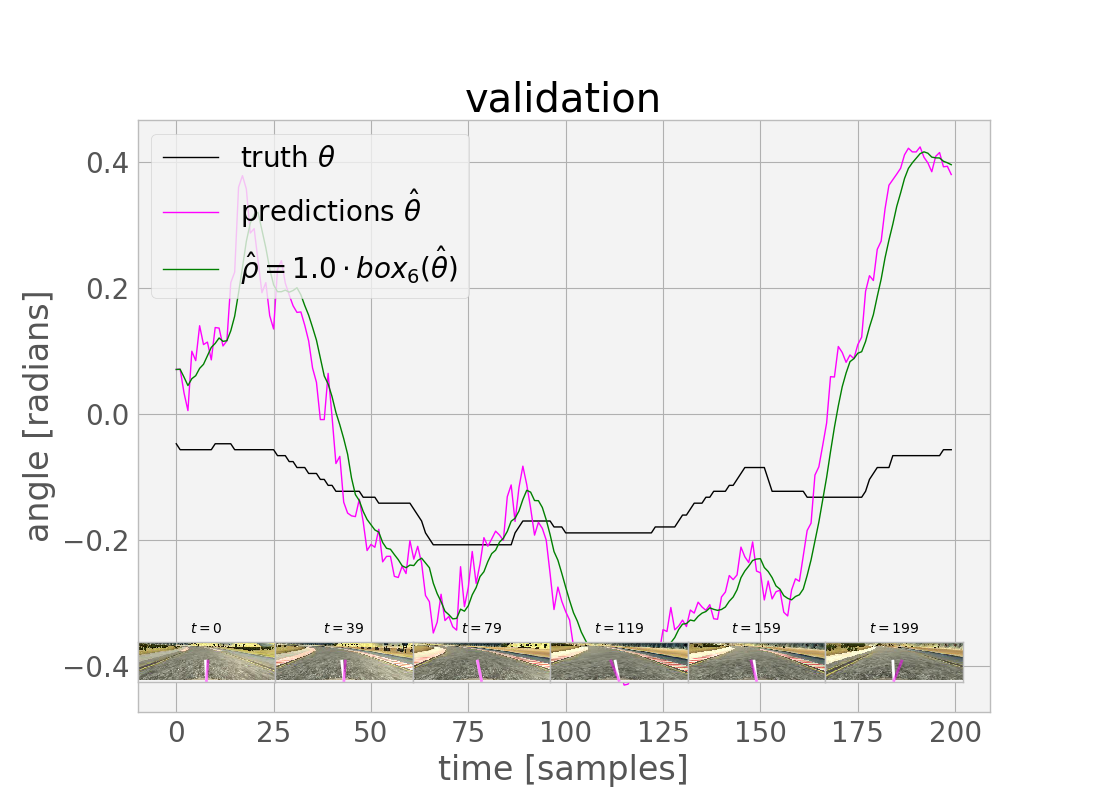
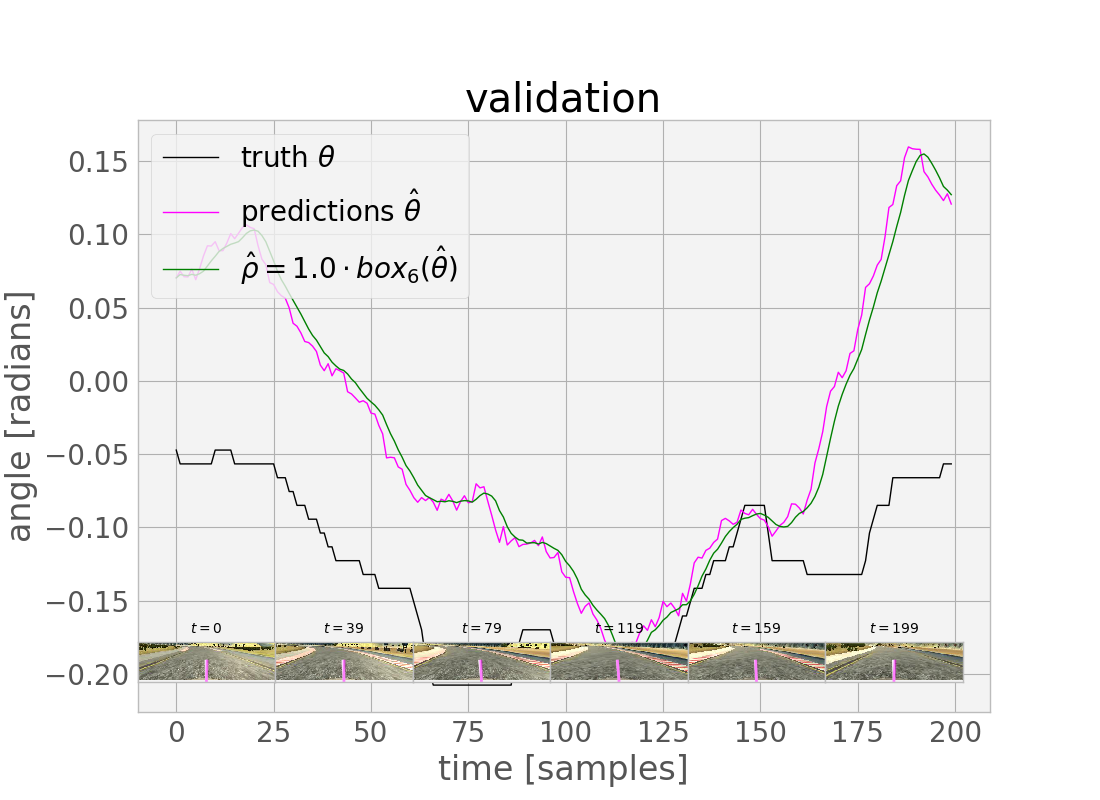
Update model with tanh.

diff --git a/model.py b/model.py
@@ -3,6 +3,18 @@ import keras, numpy as np, matplotlib.pyplot as plt
 import nnUtils, loadData, models
 
 
+## SET PARAMETERS.
+epochs = 18
+learningRate = .0001
+kernel_regularizer = keras.regularizers.l2(0.01)
+#bias_regularizer = keras.regularizers.l2(0.01)
+bias_regularizer = None
+epochSubsampling = 1
+denseActivation = 'tanh'
+lastActivation = 'tanh'
+batchBaseSize = 25
+
+
 ## CREATE DATA GENERATOR.
 datadir = os.path.join(os.path.expanduser('~'), 'data2', 'behavioralCloning')
 dataGenerator = loadData.DeemphasizedZeroDataGenerator(
@@ -11,32 +23,28 @@ dataGenerator = loadData.DeemphasizedZeroDataGenerator(
         for p in (
             'mouseForward.zip',
             'mouseReverse.zip',
-            # 'longCarefulForward.zip',
-            # 'longCarefulReverse.zip',
-            # 'data_provided.zip',
-            # 'dirtSidesForward.zip',
-            # 'dirtSidesReverse.zip',
-            'jungleMouseCenterForward.zip',
-            'jungleMouseCenterReverse.zip',
+            'longCarefulForward.zip',
+            'longCarefulReverse.zip',
+            'data_provided.zip',
+            'dirtSidesForward.zip',
+            'dirtSidesReverse.zip',
+            # 'jungleMouseCenterForward.zip',
+            # 'jungleMouseCenterReverse.zip',
         )
     ],
-    sidecamAdjustment=[.15, .15, .6, .6],
+    sidecamAdjustment=.15,
+    #sidecamAdjustment=[.15, .15, .6, .6],
+    batchBaseSize=batchBaseSize,
 )
 
 
 ## DEFINE MODEL.
-epochs = 6
-learningRate = .0001
-kernel_regularizer = keras.regularizers.l2(0.001)
-#bias_regularizer = keras.regularizers.l2(0.01)
-bias_regularizer = None
-epochSubsampling = 1
 modelname = (
-    'mouseJungle-deemZero-kl2%.1g-%depoch-subsamp%.1g-scads_%s' % (
+    'bigdata-deemZero-kl2%.1g-%depoch-subsamp%.1g-scads_%s-fc_%s-final_%s-batchBaseSize_%d' % (
     kernel_regularizer.l2, epochs, epochSubsampling, 
-    '_'.join(['%.2g' % sca for sca in dataGenerator.sidecamAdjustments])
+    '_'.join(['%.2g' % sca for sca in dataGenerator.sidecamAdjustments]),
+    denseActivation, lastActivation, batchBaseSize
 )).replace('0.', 'p')
-
 model = models.Nvidia(
     len(dataGenerator.responseKeys), dataGenerator.sampleImageShape,
     optimizer=keras.optimizers.Nadam(
@@ -44,8 +52,9 @@ model = models.Nvidia(
     ),
     kernel_regularizer=kernel_regularizer,
     bias_regularizer=bias_regularizer,
+    denseActivation=denseActivation,
+    lastActivation=lastActivation,
 )
-
 print(model.summary())
 
 

diff --git a/doc/report.md b/doc/report.md
@@ -26,14 +26,13 @@ Instead, I dropped the transfer learning approach and adopted the network struct
 | Conv2D     | 3           | (1, 1) | (None, 4, 23, 64)    |    27712            | Relu       |
 | Conv2D     | 3           | (1, 1) | (None, 2, 21, 64)    |    36928            | Relu       |
 | Flatten    |             |        | (None, 2688)         |    0                |            | 
-| Dense      |             |        | (None, 100)          |    268900           | Relu       |
-| Dense      |             |        | (None, 50)           |    5050             | Relu       |
-| Dense      |             |        | (None, 10)           |    510              | Relu       |
+| Dense      |             |        | (None, 100)          |    268900           | Tanh       |
+| Dense      |             |        | (None, 50)           |    5050             | Tanh       |
+| Dense      |             |        | (None, 10)           |    510              | Tanh       |
 | Dense      |             |        | (None, 1)            |    11               | Tanh       |
 |            |             |        |                      | Total: 405,819      |            |
 
-Here, the Lambda layer is used to convert the cropped image from 8-bit unsigned integer in [0, 255] to floating point in [-1, 1]. As in the InceptionV3 architecture, the bulk of the parameters go to the transition from flattend Conv2D features to the dense function layers. A final Tanh activation is used
-to ensure output in the correct range.
+Here, the Lambda layer is used to convert the cropped image from 8-bit unsigned integer in [0, 255] to floating point in [-1, 1]. As in the InceptionV3 architecture, the bulk of the parameters go to the transition from flattend Conv2D features to the dense function layers. Tanh activation on the fully connected layers seems to provide smoother response (though more regularization is required), and ensures output in the full [-1, 1] range.
 
 ## Data, data augmentation, and preprocessing
 
@@ -41,9 +40,7 @@ Eventually, I found that very good results were obtainable using only the provid
 
 In order to accommodate large datasets, I produced a `DataGenerator` class that worked with Keras's `Model.fit_generator` method to read images from the hard drive only as needed. Since Keras accumulates this data in a queue for feeding to to the optimizer, and batches appeared to be read from the generator initially faster than they were consumed by the optimizer, I do not believe that this was a bottleneck to training speed. This method also allows for combining several datasets gathered separately (each of which is stored as a zip file of the same structure as the provided data) into one mixed stream of training and validation data. Each dataset is extracted to temporary storage before training, and comprises a subdirectory full of `left_*.png`, `center_*.png`, and `right_*.png` images, as well as a CSV file in the top level listing paths to images with their corresponding response variable values (principally, steering angle).
 
-Training/validation split is accomplished by marking the last 20% of each CSV file as validation data, concatenating all the files, and generating (for each epoch) a scrambled ordering. A random train/validation split cannot be used since it would result in training and validation samples close together in time, and therefore also close together in both input and response values.
-
-TODO: Tes?t
+Training/validation split is accomplished by marking the last 20% of each CSV file as validation data, concatenating all the files, and generating (for each epoch) a scrambled ordering. A random train/validation split cannot be used since it would result in training and validation samples close together in time, and therefore also close together in both input and response values. I did not create a test split, choosing instead to "test" in the simulator.
 
 
 ### Response distribution leveling
@@ -84,7 +81,7 @@ Interestingly, this insight provides most of what is needed to get some sort of 
 
 ## Post-Processing
 
-Initially, since network outputs appeared very noisy, I added temporal smoothing by using a running average of the last 6 or so steering angle predictions. Since this had the effect of damping out needed strong turns, I multiplied this average by an arbitrary scaling factor of about two. However, this approach predictably did more harm than good as the network outputs became better (through improved architecture and preprocessing). In particular, temporal smoothing makes it difficult for the controller to respond to quickly changing inputs, as appear when the car is moving more quickly. With this smoothing in place, the speed had to be fixed at as low as 5 MPH to avoid curb strikes.
+Initially, since network outputs appeared very noisy, I added temporal smoothing by using a running average of the last 6 or so steering angle predictions (denoted as $\hat\rho$). Since this had the effect of damping out needed strong turns, I multiplied this average by an arbitrary scaling factor of about two. However, this approach predictably did more harm than good as the network outputs became better (through improved architecture and preprocessing). In particular, temporal smoothing makes it difficult for the controller to respond to quickly changing inputs, as appear when the car is moving more quickly. With this smoothing in place, the speed had to be fixed at as low as 5 MPH to avoid curb strikes.
 
 Eventually, the (unfiltered) network results were good enough to control the car reliably at its maximum speed of 30 MPH on straight sections, and almost this on curves. To accommodate this variability, I allowed the base speed `baseSpeedTarget` to be reduced by the absolute value of the turn angle, multiplied by a scalar `slowdownFactor`. This set point was then smoothed with a long-term running average of the past 60 values before being passed to the speed PI controller. Obviously, it would be better to anticipate curves, and slow down in advance, but that would require a different model. This is at least a little better than a static speed.
 
@@ -101,6 +98,13 @@ Still, a major challenge of the jungle track is its many steep hills, which make
 
 
 ## Videos
+
+Main track:
+[![Main track](https://img.youtube.com/vi/d0kWB-mOyhk/0.jpg)](https://www.youtube.com/watch?v=d0kWB-mOyhk)
+
+Jungle track:
+[![Jungle track](https://img.youtube.com/vi/z7VjrbWLlXE/0.jpg)](https://www.youtube.com/watch?v=z7VjrbWLlXE)
+
 
 ## References
 
